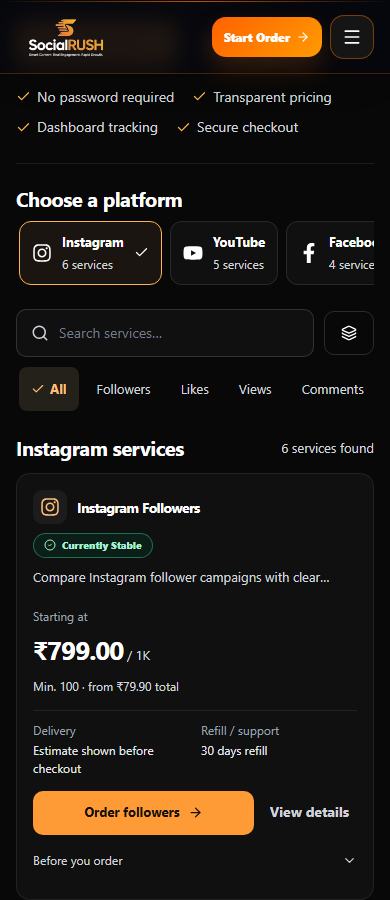
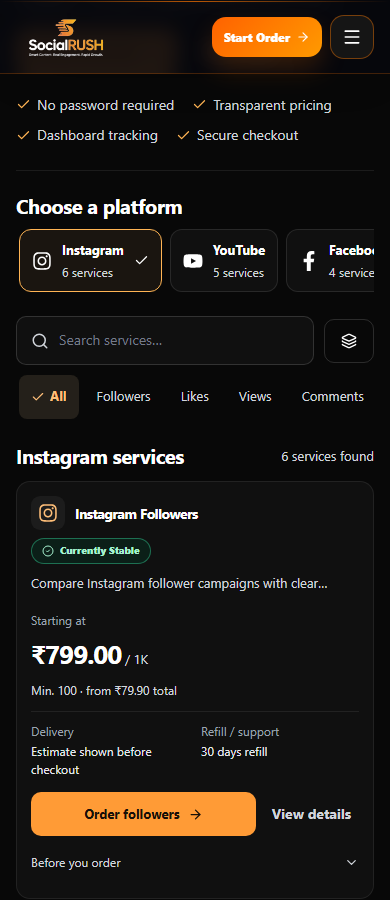
fix: keep service cards compact across font renderers

diff --git a/components/marketing/services/ServicesCatalog.module.css b/components/marketing/services/ServicesCatalog.module.css
@@ -43,13 +43,13 @@
 .results p { font-size:13px; color:#d1d5db; }
 .results button { min-height:44px; padding:8px; color:#ffbf79; font-size:13px; }
 .grid { display:grid; gap:12px; }
-.card { min-width:0; padding:16px; border:1px solid #ffffff14; border-radius:14px; background:#101010; display:flex; flex-direction:column; }
+.card { min-width:0; padding:14px; border:1px solid #ffffff14; border-radius:14px; background:#101010; display:flex; flex-direction:column; }
 .cardHeading { display:flex; align-items:center; gap:10px; }
 .icon { display:grid; place-items:center; width:34px; height:34px; flex-shrink:0; color:#ffbf79; background:#1c1c1c; border-radius:9px; }
 .card h3 { font-size:16px; font-weight:700; line-height:1.3; overflow-wrap:anywhere; }
 .health { margin-top:8px; }
 .description { font-size:13px; line-height:1.5; color:#d1d5db; margin-top:8px; display:-webkit-box; -webkit-line-clamp:1; -webkit-box-orient:vertical; overflow:hidden; }
-.price { margin:14px 0 12px; }
+.price { margin:12px 0 10px; }
 .price>span { color:#9ca3af; font-size:12px; }
 .price p { font-size:13px; color:#d1d5db; line-height:1.5; }
 .price strong { color:#fff; font-size:26px; font-weight:750; letter-spacing:-.035em; }

diff --git a/docs/services-v2-qa.md b/docs/services-v2-qa.md
@@ -40,6 +40,8 @@ The 600px grid remains one column to prevent narrow cards. Two columns start at 
 
 The initial broad browser run passed 101 of 106 tests. Three existing matrix cases hit browser setup/transport failures during concurrent execution and passed on a single-worker rerun. QA also found and corrected narrow 600px cards and a search field whose accessible name changed when its clear button appeared.
 
+The first GitHub CI run passed 218 of 219 browser checks. Linux font wrapping made the first 320px card 444px tall, above the unchanged 440px compact-card limit. Card and price spacing were reduced while preserving font sizes and 44px touch targets. The updated production build and all 26 directory tests passed locally; the final GitHub CI outcome is recorded in the PR description.
+
 Standalone whole-repository `npx eslint . --quiet` reports 10 pre-existing errors in generated `next-env.d.ts`, `tests/unit/related-services.test.ts`, and `tests/unit/sales-pipeline.test.ts`. These files were not changed to address unrelated lint debt.
 
 ## Screenshots
